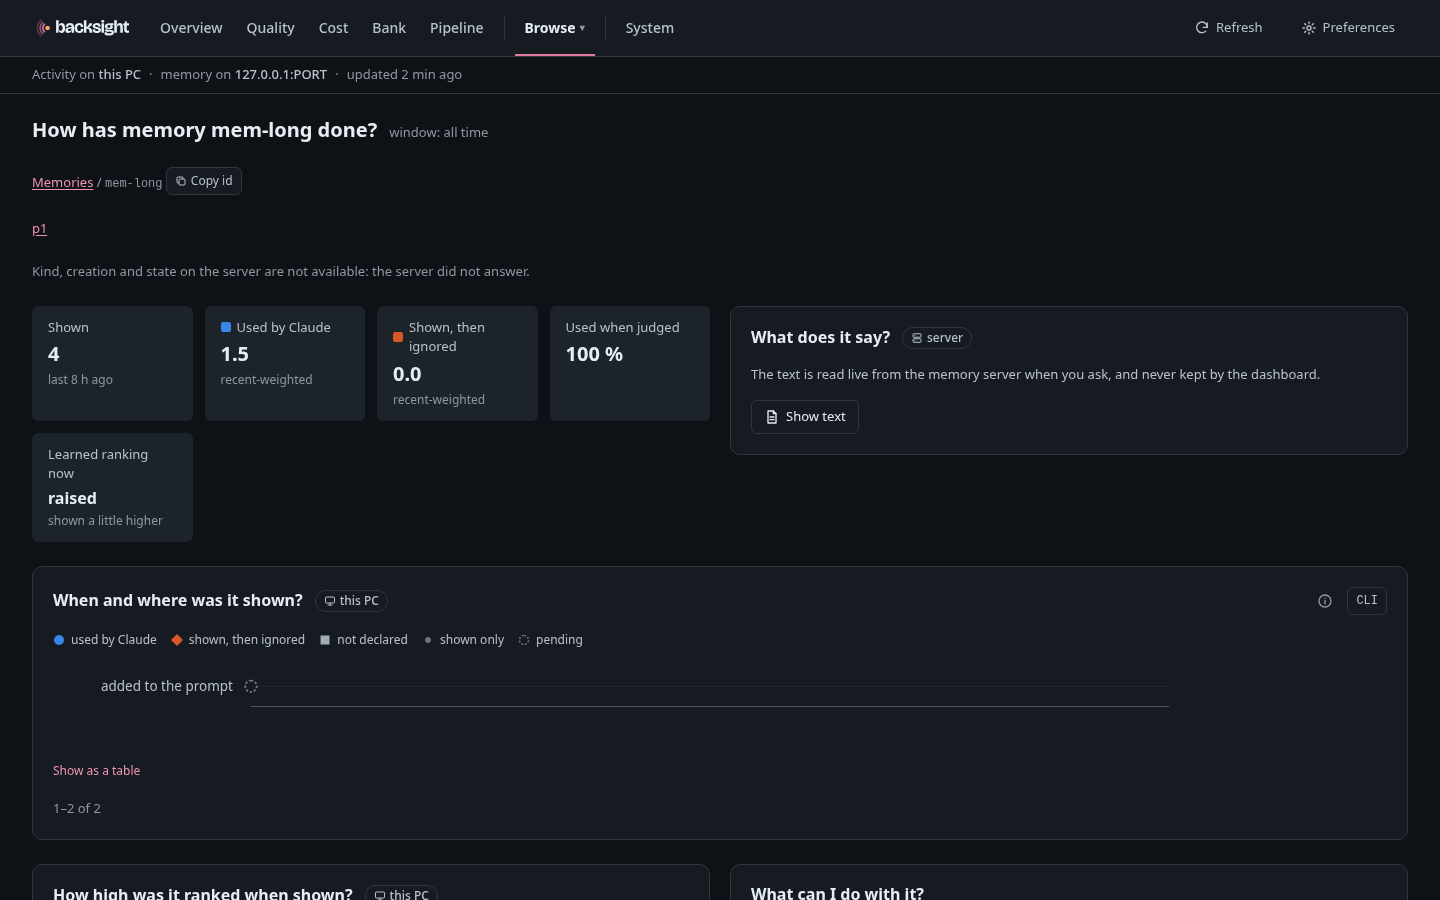
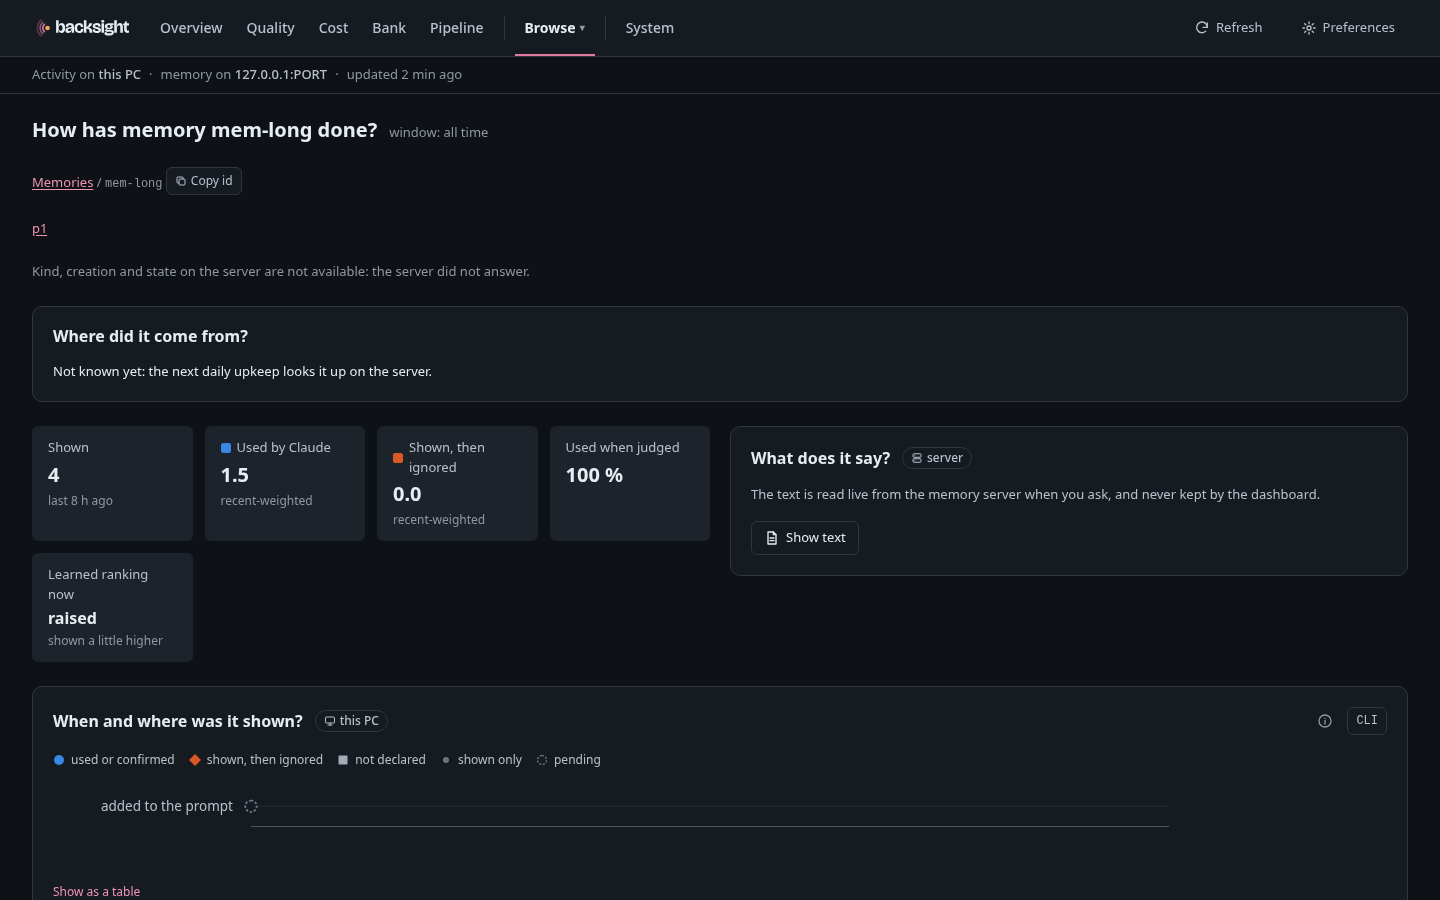
🔖 Release notes v0.1.34-m7
The memory dashboard after its reviews of the whole: the fixes of
PRs 252-255, the Windows login-code race of PR 251 and the dependency
bump of PR 245; the README's dashboard screenshots redrawn from the
fixtures by the real renderer (items sent).

Claude-Session: https://claude.ai/code/session_01TYfkck8w6aE1pmQdbPU4GW

diff --git a/docs/releases/v0.1.34-m7.md b/docs/releases/v0.1.34-m7.md
@@ -1,0 +1,95 @@
+**Pre-release.** Linux amd64 is tested; Windows amd64 is tested in CI and on a Windows 11 VM for the dashboard's Windows paths. The Linux arm64 and macOS binaries are built but not tested.
+
+Update from any earlier v0.1 with `backsight update apply`: it takes a verified backup first and rolls back if a step fails. Then restart Claude Code and a running dashboard (Ctrl+C, then `backsight dashboard`). New install: see below.
+- The server is unchanged (Hindsight 1.2.0): no server upgrade.
+- The instruction set is unchanged (v16). The bank template and the plugin are unchanged.
+- **The metrics index's schema changes** (one column: the sessions a `jobs tick` counted as waiting). `update apply` migrates it once the update is committed; an older version that runs afterwards keeps its own index file beside it.
+- On Linux and macOS, `metrics.db` and `ledger.db` become readable by you alone, as every other file of backsight's state already was.
+
+## What changed
+
+The memory dashboard went through four independent reviews of the whole: does it do what it promises, do its tests catch a regression, is it safe, and are its numbers true on a real PC's data. This release fixes what they found.
+
+**Numbers that were wrong** (https://github.com/Barben360/backsight/pull/254):
+- **"Flowing: needs attention" with nothing waiting.** When sending was held (an extraction hold, a restore), a session with nothing left to send was still logged as "to retry", and no later line cleared it. The dashboard then said "0 waiting" in red with an item waiting for days, and counted that session as not sent. `jobs tick` now records which sessions it counts as waiting, and a session it no longer counts is read as sent; with the records of earlier versions, a tick that found no session waiting clears them. Such a session is no longer logged as "to retry". The backlog lines now say how long the oldest item has waited.
+- **The verdict's lines followed the selected window.** At 30 days the Overview said "Cost ok, slowest prompts 2.1 s" under "last 7 days", where the 7-day figure was 1.3 s. The axis lines, the attention list and the copied summary now always show the last 7 days, like the verdict.
+- **Time to recall said "ok" with too few sessions** in `stats` and its JSON, while the page said "too few". A figure judged on its slowest 1 in 20 now reads "too few" until it has 100 values, everywhere.
+- **Extraction cost counted an extra day.** The server counts per UTC day, and a day straddling the window's start was counted whole: a custom 7-day window counted 8 days (on the developer's data, $19.17 where $15.38 belonged to the window). A UTC day now counts when its noon falls in the window, as the several-PC figures already did. `backsight stats [days]` asks the server for the same period and counts the same days, so it gives the dashboard's figures on every window (its layout is unchanged; on a rolling window its first day is now the server's partial one).
+- **"Sessions sent" counted notes and subagent reports too.** The tile and the Pipeline page now say "items sent", and `stats pipeline` and the page add the breakdown (from sessions, notes, subagent reports); `pipeline.flow` gains `sessions`, `notes` and `subagent_reports` in its JSON.
+- **The Days table counted a document sent twice as two.** "Sent" and "Failed" now count each document once per day.
+
+**Safety** (https://github.com/Barben360/backsight/pull/255):
+- **Windows are bounded.** A window typed in a URL or given to `stats --since/--until` had no length limit: one far-future `until` made a signed-in dashboard request use about 18 GB of memory, and year 1 gave an error page. A window is now at most 400 days, between 2000 and 2099: the CLI exits 2, the API answers 400, the page says why.
+- **Commands to copy are quoted.** Project names and memory ids in the commands the dashboard and `stats --json` offer (`command` fields, Copy buttons) were pasted as they are: a project named with shell characters could run them. They are now quoted, for PowerShell on Windows and for sh elsewhere.
+- **`metrics/published.json` no longer holds the server address and bank name**, only a hash of them; an earlier file is read as its hash, so nothing is sent again.
+- `metrics.db`, `ledger.db` and their side files are created readable by you alone.
+
+**Wording**:
+- The Memories list is the whole feedback record, not the memories shown in the window: its help, page title, empty states and docs now say so, and `--sort`'s help names its real default (`shown`).
+- With no memory server set up, the Overview, the copied summary and the Machines card say "no memory server set up" instead of "not answering".
+- [docs/dashboard.md](../dashboard.md) lists every reason a figure can have no data, and [docs/commands.md](../commands.md) says which views wait during an update (those that must first build or migrate the index).
+
+**Also**:
+- On Windows, two sign-ins racing for one dashboard link could give the loser an error instead of "link already used" (https://github.com/Barben360/backsight/pull/251).
+- Tests: new cases for the order of journal lines read after the last tick, a server pause that has ended, a clock set back, the agreement between `stats` and the views, month rotation and privacy checks on more fields (https://github.com/Barben360/backsight/pull/252); a migration test made deterministic on Windows (https://github.com/Barben360/backsight/pull/253).
+- Dependencies: `modernc.org/sqlite` 1.61.1 and `spf13/pflag` 1.1.0 (https://github.com/Barben360/backsight/pull/245).
+- The README's dashboard screenshots are redrawn.
+
+## Install
+
+On Linux:
+
+```sh
+curl -fsSL https://raw.githubusercontent.com/Barben360/backsight/main/scripts/install.sh | sh
+backsight setup
+```
+
+On Windows x86_64, in PowerShell:
+
+```powershell
+powershell -ExecutionPolicy ByPass -c "irm https://raw.githubusercontent.com/Barben360/backsight/main/scripts/install.ps1 | iex"
+backsight setup
+```
+
+Requirements as for v0.1.22-m7. On Windows, Claude Code must find Git Bash: if Git for Windows is portable or installed in a place of your own, set `CLAUDE_CODE_GIT_BASH_PATH` to its `bin\bash.exe` (doctor's `git-bash` check gives the command).
+
+## Known limits
+
+- Dashboard:
+  - Version switches and settings changes are marked on a day's page and on Releases only, not on every chart.
+  - The custom window goes back 13 months, as far as this PC keeps its history.
+  - Time to recall needs a few days of history, and 20 sessions before it shows times; it is judged (ok or watch) only from 100 sessions, and reads "too few" until then.
+  - A window, custom or typed in a URL, can span at most 400 days, between 2000 and 2099.
+  - Bank growth still counts a UTC day that straddles the window's start as a whole day.
+  - Memory yield needs four weeks: a week counts 28 days after it ends.
+  - On a window over 200 days, charts show no per-day values on hover, and "Show as a table" lists the latest 120 days.
+  - A week that is not complete shows no count of new memories.
+  - The project filter takes a typed name, not a pick from a list (the Projects page lists the names). The Projects list cannot be sorted. The context card names the session budget rather than showing its value.
+- GPU reranker:
+  - It needs the Docker runtime, on the server's PC.
+  - Tested on one NVIDIA RTX A2000 (Linux) and one AMD Radeon 890M (Linux). Intel GPUs, macOS and Windows are not tested.
+- Owner checks:
+  - The short-lived native units created during install, start and restore are not checked.
+  - On Windows, when neither `schtasks` nor the task's file can be read, the task is driven as before.
+- `retain resend-failed`: it does not cover notes and sub-agent reports sent while extraction failed (the queue drops them once sent). A transcript rewritten or moved after its worktree was deleted loses the project recorded for those turns, so the session is then filed by today's rules.
+- The metrics index: an index already in write-ahead mode whose folder no longer allows it fails its writes until the state directory is back on a local disk. `stats days` reads a year of prompts with no index for it (about 0.1 s locally).
+- Import: a file the server keeps rejecting holds that folder's next files until it passes. The last tick before a cap can overshoot it by what was already in flight. A file deleted from the folder stays in the memory until `import purge`.
+- Windows:
+  - WSL is not tested, and Windows on Arm has no binary.
+  - The native runtime is the only runtime there (`server runtime switch` is refused). It serves this PC only, has no web UI, and starts with your logon, not at boot.
+  - `backsight server status` keeps showing the server's last refusal while it is stopped, until a start passes the check.
+  - backsight's `.exe` files are not code-signed: SmartScreen or Smart App Control may warn about them. The install script checks the release signature before it runs anything.
+- A new install reads "learning" for its first week, and some numbers read "too few" until enough prompts and turns accumulate.
+- Extraction cost needs a price: the built-in table's, or one set under `[llm]` in the config file for another model (doctor's `price` check says when none is known). The server reports token counts for all PCs together.
+- On native, PostgreSQL is 18.1 with pgvector 0.8.5, where the Docker image runs 18.6 with 0.8.7; `backup verify` runs in the runtime that will restore.
+- On Windows, the commands the dashboard and `stats --json` offer to copy are quoted for PowerShell; run through Git Bash, a name holding an apostrophe comes out without it.
+- Claude cannot run `/reload-plugins`: after an update from the session, you type it.
+- A LAN address carries the API key in clear; a tailnet address encrypts it.
+- The shared part of a session continued on two PCs may be stored twice.
+- Several PCs: a PC sends its figures once a UTC day, up to the day before, so another PC's today is not in all PCs until the next day; the others' figures are fetched every 6 hours. A PC counts in a window by the noon (UTC) of each of its days. The other PCs send no project, session or memory: Projects, Sessions and Memories stay this PC's, and a project filter does not narrow the others (`other PCs: not filtered`). The verdict stays this PC's. Speed across PCs is a range from time buckets, never an exact time, and the PCs' figures are trusted as sent: nothing signs them.
+- The feedback database:
+  - The ledger lookup's speed is measured on Linux only: Windows has no bench yet.
+  - After a rollback to an older version and an update again, the counts that version added catch up at the first tick.
+  - In a rare race during an update or a rollback, an older version can leave one tick's shows out of its `ledger.json`; this version's next tick counts them.
+
+Report problems at https://github.com/Barben360/backsight/issues, after reading the diagnostic `backsight report` prints, or ask Claude `/backsight:doctor`. Report vulnerabilities privately, as https://github.com/Barben360/backsight/blob/main/SECURITY.md describes.

diff --git a/docs/compatibility.md b/docs/compatibility.md
@@ -39,6 +39,7 @@ One row per release, newest first, added with the release's notes in `docs/relea
 
 | Release | Hindsight server | Minimum Claude Code | Notes |
 |---|---|---|---|
+| v0.1.34-m7 | 1.2.0 (`sha256:19d0c08f…`; native: PyPI `hindsight-api-slim` 1.2.0, hash-locked, with a security override for pyasn1; Windows: its own hash-locked set) | 2.1.309 | The memory dashboard reviewed and fixed: Flowing no longer flags sessions already sent (`jobs tick` records the sessions it counts as waiting; metrics index schema 5, migrated by `update apply`), the verdict's lines on the last 7 days, time to recall "too few" under 100, extraction cost by UTC days whose noon is in the window (`stats [days]` too), "items sent" with its breakdown, Days counts documents once; windows capped at 400 days, copyable commands quoted, `published.json` hashed, index and ledger files 0600; no server, bank or instruction-set change; Linux amd64 tested, Windows tested in CI ([notes](releases/v0.1.34-m7.md)) |
 | v0.1.33-m7 | 1.2.0 (`sha256:19d0c08f…`; native: PyPI `hindsight-api-slim` 1.2.0, hash-locked, with a security override for pyasn1; Windows: its own hash-locked set) | 2.1.309 | The feedback counts in a local database, `feedback/ledger.db`, derived from the journal and folded exactly once (built by `update apply`, `ledger.json` kept as its export for older versions); recall reads it with the lines since the last tick; doctor `feedback-ledger` rewritten; `feedback rebuild` on the database, `--no-import` keeps later imports; no server, bank or instruction-set change; Linux amd64 tested, Windows tested in CI ([notes](releases/v0.1.33-m7.md)) |
 | v0.1.32-m7 | 1.2.0 (`sha256:19d0c08f…`; native: PyPI `hindsight-api-slim` 1.2.0, hash-locked, with a security override for pyasn1; Windows: its own hash-locked set) | 2.1.309 | A third of the server's LLM cost: long sessions appended once 30,000 characters or 6 h wait (`retain.*`), briefing pages rewritten at most every 6 h (`recall.briefing_refresh_interval`), short subagent reports no longer stored and swept once by `jobs maintain` (`hooks.subagent_report_min_chars`), process steps out of extraction (new bank template); `memory_store` shows one similar memory at most (`recall.store_similar_min_score`), which `memory_credit` accepts; the briefing after a compaction only when it changed; `PostToolUseFailure` wired only when on; the briefing page creditable; instruction set v16; metrics index schema: a table and three columns for the new telemetry (additive); Linux amd64 tested, Windows tested in CI ([notes](releases/v0.1.32-m7.md)) |
 | v0.1.31-m7 | 1.2.0 (`sha256:19d0c08f…`; native: PyPI `hindsight-api-slim` 1.2.0, hash-locked, with a security override for pyasn1; Windows: its own hash-locked set) | 2.1.309 | Costs price cache writes for Claude and OpenAI models (fresh input at 1.25 times the input price); `gpt-6.1-terra`, `gpt-6.1-sol` and `gpt-6-astra` priced; doctor `price`; a weekly check of the price table; Linux amd64 tested, Windows tested in CI ([notes](releases/v0.1.31-m7.md)) |
